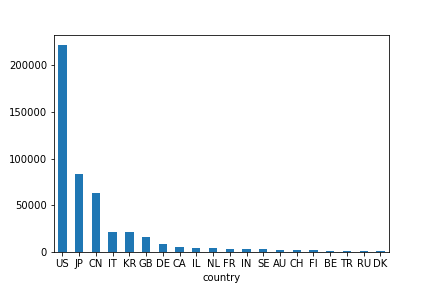
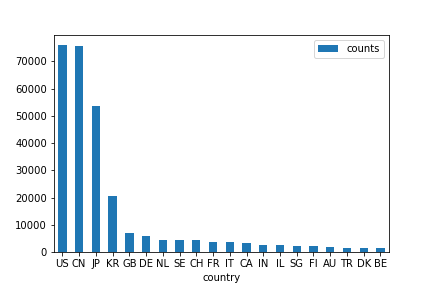
adding images

diff --git a/index.html b/index.html
@@ -48,28 +48,28 @@
       </div>
       <div class = "row">        
         <div class="card card-big">
-          <h4 class="card-header"> AGENTS worldwide</h4>
+          <h4 class="card-header"> Patents worldwide</h4>
           <div class="card-body">
             <p class="card-text">
-              The number of agents which have filed the patents in 2021:
+              The number of patent publications in 2021 by country (top 20):
             </p>
           </div>
           <div class="card-img-bottom metadata-img">
-            <!-- <canvas id="metadata"></canvas> -->
-            <img src="images/agentsCountriesStat.png">
-          <div></div>
+            <!-- <canvas id="patentCount"></canvas> -->
+            <img src="images/top20_2021.png">
+          </div>
         </div>
         <div class="card card-big">
-          <h4 class="card-header"> AGENTS of Korea</h4>
+          <h4 class="card-header"> </h4>
           <div class="card-body">
             <p class="card-text">
-              The agents (top 20) in Korea which have filed the most patents in 2021:
+              The number of patent publications in 2000 by country (top 20):
             </p>
           </div>
           <div class="card-img-bottom metadata-img">
-            <!-- <canvas id="metadata"></canvas> -->
-            <img src="images/agentsKRtop20.png">
-          <div></div>
+            <!-- <canvas id="patentCount"></canvas> -->
+            <img src="images/top20_2000.png">
+          </div>
         </div>
       </div>
 
@@ -90,8 +90,10 @@
      <script src="https://stackpath.bootstrapcdn.com/bootstrap/4.5.2/js/bootstrap.min.js" integrity="sha384-B4gt1jrGC7Jh4AgTPSdUtOBvfO8shuf57BaghqFfPlYxofvL8/KUEfYiJOMMV+rV" crossorigin="anonymous"></script>
 
      <!-- my JS -->
-     <!-- <script src="static/js/results_data.js"></script> -->
-     <!-- <script src="static/js/chart_main.js"></script> -->
+     <script src="static/js/countryNames.js"></script>
+     <script src="static/js/countsSortBy2000.js"></script>
+     <script src="static/js/countsSortBy2021.js"></script>
+     <script src="static/js/chart_main.js"></script>
 
   </body>
 </html>
